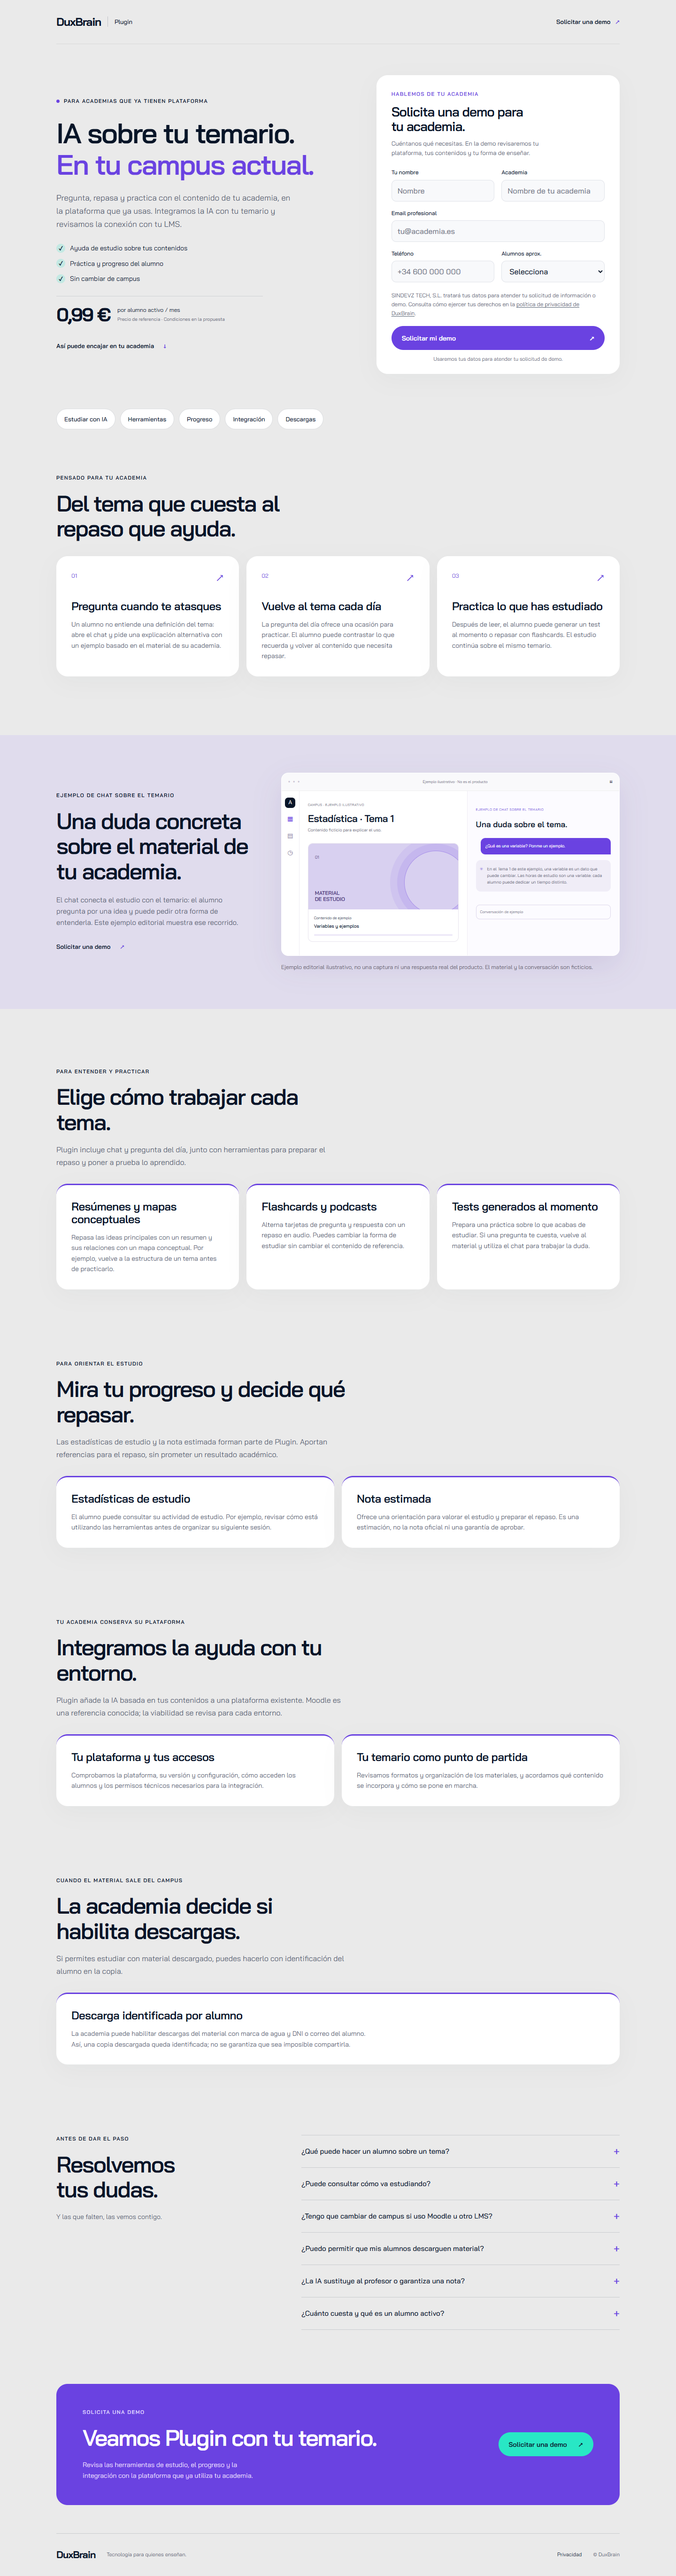
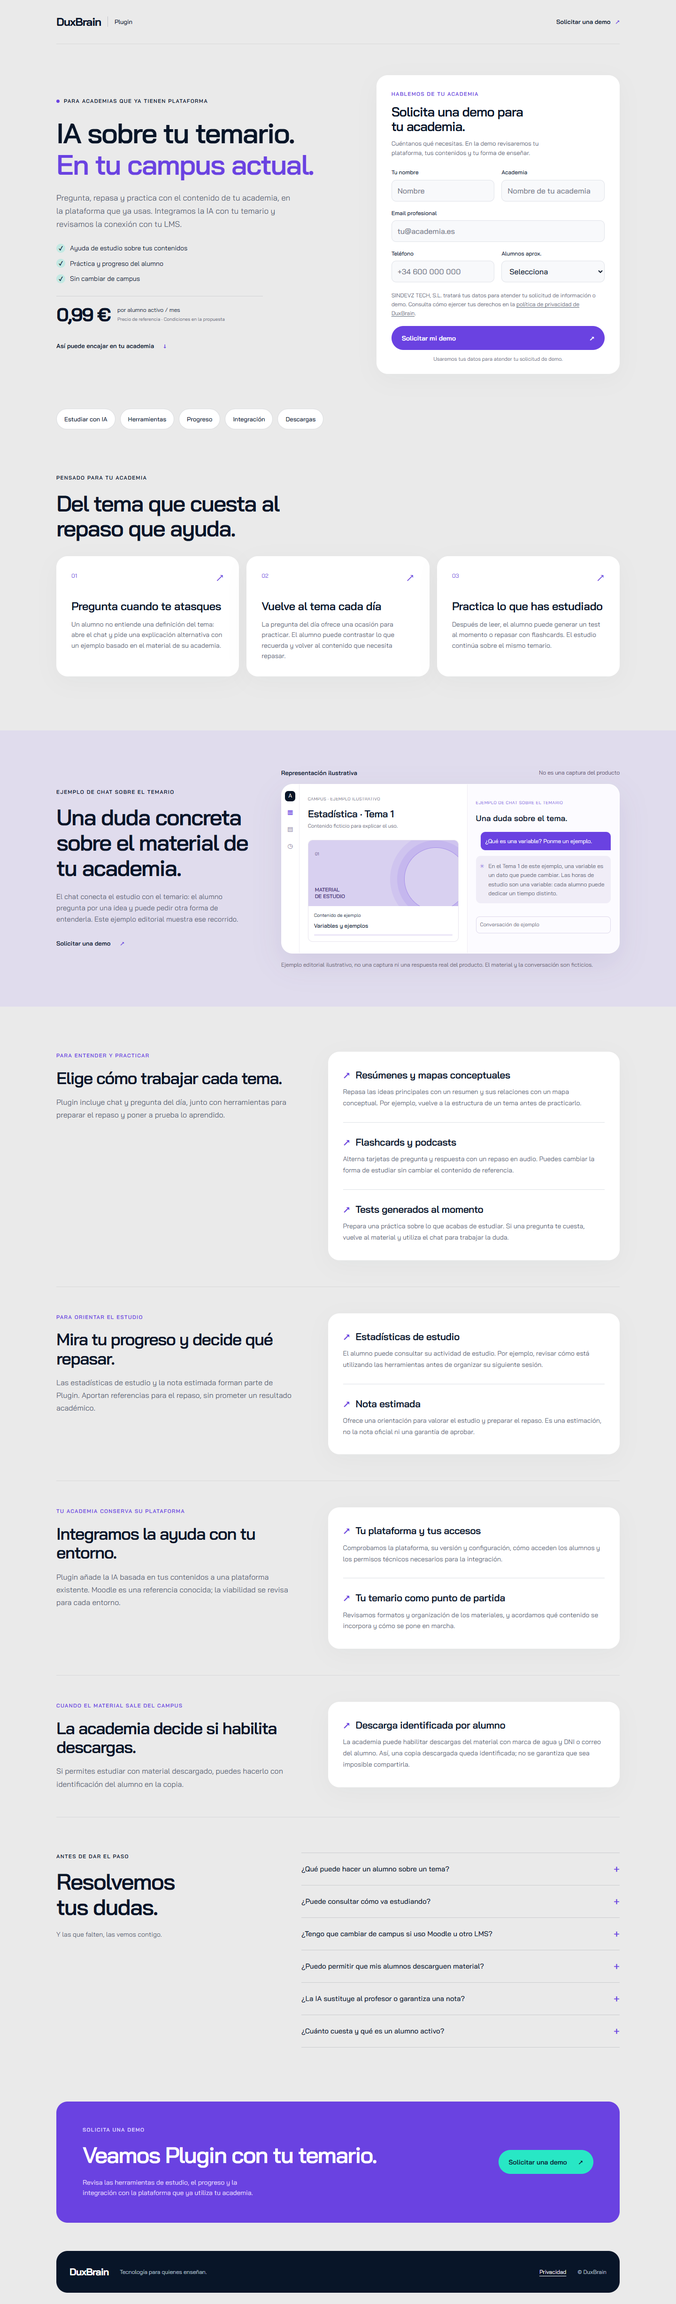
style: refine landing layouts and document required official assets

diff --git a/src/app/globals.css b/src/app/globals.css
@@ -81,11 +81,16 @@ fieldset:disabled .button { opacity: .7; cursor: default; transform: none; }
 .section-nav { display: flex; flex-wrap: wrap; gap: 10px; padding-block: 0 20px; }
 .section-nav a { min-height: 44px; display: inline-flex; align-items: center; padding: 8px 16px; border: 1px solid #08152824; border-radius: 100px; font-size: 13px; font-weight: 500; background: var(--surface); }
 .section-nav a:hover { color: var(--purple); border-color: var(--purple); }
-.feature-grid { display: grid; grid-template-columns: repeat(auto-fit, minmax(min(100%, 280px), 1fr)); gap: 16px; }
+.feature-grid { display: grid; gap: 0; background: var(--surface); border-radius: var(--radius); padding: 4px 24px; box-shadow: var(--shadow); }
 .feature-description { margin-top: 18px; font-size: 16px; line-height: 1.7; }
-.feature-section { scroll-margin-top: 24px; }
-.feature-card { border-top: 3px solid var(--purple); }
-.feature-card p { max-width: 70ch; }
+.feature-section { scroll-margin-top: 24px; border-bottom: 1px solid #08152816; padding-block: 48px; }
+.feature-section .section-heading { margin-bottom: 24px; }
+.feature-section .eyebrow { color: var(--purple); }
+.feature-item { padding-block: 24px; }
+.feature-item + .feature-item { border-top: 1px solid var(--line); }
+.feature-item h3 { display: flex; gap: 12px; font-size: 19px; line-height: 1.25; }
+.feature-item h3 span { color: var(--purple); flex-shrink: 0; }
+.feature-item p { max-width: 65ch; font-size: 14px; margin-top: 12px; line-height: 1.7; }
 .section-heading { max-width: 620px; margin-bottom: 32px; }
 .section-heading .eyebrow, .demo-copy .eyebrow, .faq-section .eyebrow { margin-bottom: 18px; }
 .benefit-grid { display: grid; gap: 16px; }
@@ -93,38 +98,38 @@ fieldset:disabled .button { opacity: .7; cursor: default; transform: none; }
 .feature-number { display: flex; justify-content: space-between; font-size: 12px; color: var(--purple); margin-bottom: 36px; }
 .feature-number > span { font-size: 25px; line-height: 1; }
 .benefit-card p { font-size: 14px; margin-top: 14px; }
-.demo-section { background: #e0dced; margin-block: 50px; padding-block: 64px; overflow: hidden; }
+.demo-section { background: #e0dced; margin-block: 40px; padding-block: 64px; overflow: hidden; }
 .demo-layout { display: grid; gap: 36px; align-items: center; }
 .demo-copy p { margin: 22px 0 26px; font-size: 15px; }
 .demo-figure { margin: 0; min-width: 0; }
-.product-window { border-radius: 15px; background: white; overflow: hidden; box-shadow: 0 22px 60px #422a7819; border: 1px solid #ffffff80; }
-.window-top { height: 38px; display: flex; align-items: center; justify-content: space-between; padding: 0 14px; background: #f9f9fb; border-bottom: 1px solid #eee; font-size: 8px; color: var(--muted); }
-.window-dots { letter-spacing: 2px; font-size: 7px; color: #c8c4d3; }
+.illustration-label { display: flex; flex-direction: column; gap: 2px; margin-bottom: 14px; font-size: 13px; font-weight: 600; color: var(--ink); }
+.illustration-label span { font-size: 12px; font-weight: 400; color: #514466; }
+.product-window { border-radius: var(--radius); background: white; overflow: hidden; box-shadow: 0 22px 60px #422a7819; border: 1px solid #ffffff80; }
 .product-body { display: grid; grid-template-columns: 36px minmax(0, 1fr); min-height: 295px; }
 .mock-sidebar { display: flex; flex-direction: column; align-items: center; padding: 14px 0; gap: 12px; border-right: 1px solid #efedf3; }
 .mock-square { width: 22px; height: 22px; background: var(--ink); color: white; border-radius: 7px; text-align: center; font-size: 12px; }
 .mock-nav { font-size: 15px; color: #9b93af; }
 .mock-nav.active { color: var(--purple); }
 .mock-main { padding: 22px 16px; }
-.mock-kicker { font-size: 7px; letter-spacing: .06em; color: var(--muted); margin-bottom: 12px; }
+.mock-kicker { font-size: 9px; letter-spacing: .06em; color: var(--muted); margin-bottom: 12px; }
 .mock-main h3 { font-size: 18px; }
-.mock-subtitle { font-size: 9px; margin-top: 6px; }
+.mock-subtitle { font-size: 11px; margin-top: 6px; }
 .course-preview { margin-top: 20px; border: 1px solid #e7e4ed; border-radius: 10px; overflow: hidden; }
 .course-art { background: #d8d0f0; height: 112px; position: relative; overflow: hidden; padding: 14px; color: #493480; }
 .course-art > span:first-child { font-size: 9px; }
 .art-caption { position: absolute; left: 14px; bottom: 14px; font-size: 11px; font-weight: 600; line-height: 1.2; }
 .orbit { position: absolute; border: 1px solid #6a42e175; border-radius: 50%; width: 135px; height: 135px; right: -20px; top: 15px; box-shadow: 0 0 0 15px #6a42e11a, 0 0 0 30px #6a42e115; }
-.course-bottom { padding: 12px; display: grid; gap: 4px; font-size: 8px; }
-.course-bottom strong { font-size: 10px; font-weight: 500; }
+.course-bottom { padding: 12px; display: grid; gap: 4px; font-size: 10px; }
+.course-bottom strong { font-size: 12px; font-weight: 500; }
 .course-line { width: 100%; height: 3px; background: #ebe6f7; margin-top: 5px; border-radius: 10px; }
 .mock-panel { grid-column: 2; border-top: 1px solid #efedf3; padding: 20px 16px; background: #fcfbff; }
-.panel-tag { font-size: 7px; color: var(--purple); letter-spacing: .08em; }
+.panel-tag { font-size: 9px; color: var(--purple); letter-spacing: .08em; }
 .mock-panel h4 { font-size: 17px; margin-top: 12px; }
-.chat-question { margin: 20px 0 12px 10px; background: var(--purple); color: white; border-radius: 10px 10px 0 10px; padding: 10px; font-size: 9px; }
-.chat-answer { display: flex; gap: 8px; font-size: 9px; background: #f0edf7; padding: 12px 8px; border-radius: 10px; }
+.chat-question { margin: 20px 0 12px 10px; background: var(--purple); color: white; border-radius: 10px 10px 0 10px; padding: 10px; font-size: 12px; }
+.chat-answer { display: flex; gap: 8px; font-size: 12px; background: #f0edf7; padding: 12px 8px; border-radius: 10px; }
 .ai-mark { color: var(--purple); }
-.mock-input { margin-top: 28px; padding: 8px; border: 1px solid #ded8eb; border-radius: 8px; font-size: 8px; color: var(--muted); display: flex; justify-content: space-between; }
-.control-list { margin-top: 24px; font-size: 10px; }
+.mock-input { margin-top: 28px; padding: 8px; border: 1px solid #ded8eb; border-radius: 8px; font-size: 11px; color: var(--muted); display: flex; justify-content: space-between; }
+.control-list { margin-top: 24px; font-size: 12px; }
 .control-list > div { display: flex; justify-content: space-between; gap: 16px; padding: 15px 0; border-bottom: 1px solid #e4deef; }
 .control-list > div > span:last-child { color: var(--purple); }
 figcaption { font-size: 12px; color: #5d566c; margin-top: 14px; }
@@ -143,10 +148,11 @@ details p { font-size: 14px; line-height: 1.75; padding-top: 16px; padding-right
 .final-cta .eyebrow { color: #ddd3ff; margin-bottom: 18px; }
 .final-cta p { color: #e7deff; font-size: 14px; margin-top: 20px; max-width: 400px; }
 .final-cta .button { flex-shrink: 0; }
-.footer { border-top: 1px solid #08152824; padding-block: 28px; display: flex; flex-wrap: wrap; gap: 18px 24px; align-items: center; font-size: 11px; }
+.footer { padding: 28px; margin-bottom: 24px; border-radius: var(--radius); background: var(--ink); color: white; display: flex; flex-wrap: wrap; gap: 18px 24px; align-items: center; font-size: 12px; }
 .footer .brand-text { font-size: 21px; }
-.footer p { flex-basis: 100%; }
-.footer > span:last-child { color: var(--muted); }
+.footer p { flex-basis: 100%; color: #bfc8d7; }
+.footer > span:last-child { color: #bfc8d7; }
+.footer a { text-decoration: underline; text-underline-offset: 4px; }
 .skip-link { position: absolute; left: 20px; top: -100px; background: white; padding: 14px; z-index: 10; }
 .skip-link:focus { top: 12px; }
 .review-page { padding-block: 48px; }
@@ -185,6 +191,13 @@ details p { font-size: 14px; line-height: 1.75; padding-top: 16px; padding-right
   .benefit-card h3 { font-size: 24px; }
   .demo-section { padding-block: 80px; }
   .demo-layout { grid-template-columns: .85fr 1.5fr; gap: 70px; }
+  .illustration-label { flex-direction: row; justify-content: space-between; gap: 12px; }
+  .feature-section { display: grid; grid-template-columns: minmax(0, .9fr) minmax(0, 1.1fr); gap: 70px; align-items: start; padding-block: 56px; }
+  .feature-section .section-heading { margin-bottom: 0; }
+  .feature-section h2 { font-size: 36px; }
+  .feature-grid { padding: 8px 32px; }
+  .feature-item { padding-block: 28px; }
+  .feature-item h3 { font-size: 21px; }
   .mock-main { padding: 24px 18px; }
   .mock-main h3 { font-size: 21px; }
   .course-art { height: 140px; }

diff --git a/src/components/landing.tsx b/src/components/landing.tsx
@@ -41,13 +41,13 @@ export function SectionNavigation({ content: c }: { content: LandingContent }) {
 export function FeatureSections({ content: c }: { content: LandingContent }) {
   return c.sections.map(section => <section className="section container feature-section" id={section.id} key={section.id} aria-labelledby={`${section.id}-title`}>
     <div className="section-heading"><span className="eyebrow">{section.eyebrow}</span><h2 id={`${section.id}-title`}>{section.title}</h2><p className="feature-description">{section.description}</p></div>
-    <div className="feature-grid">{section.items.map(item => <article className="benefit-card feature-card" key={item.title}><h3>{item.title}</h3><p>{item.text}</p></article>)}</div>
+    <div className="feature-grid">{section.items.map(item => <article className="feature-item" key={item.title}><h3><span aria-hidden="true">↗</span>{item.title}</h3><p>{item.text}</p></article>)}</div>
   </section>);
 }
 
 export function VisualDemo({ content: c }: { content: LandingContent }) {
   return <section className="demo-section" id="en-accion"><div className="container demo-layout"><div className="demo-copy"><span className="eyebrow">{c.demo.panelLabel}</span><h2>{c.demoTitle}</h2><p>{c.demoText}</p><a className="text-link" href="#demo">Solicitar una demo <span aria-hidden="true">↗</span></a></div>
-    <figure className="demo-figure"><div className="product-window"><div className="window-top"><span className="window-dots" aria-hidden="true">● ● ●</span><span>Ejemplo ilustrativo · No es el producto</span><span aria-hidden="true">▦</span></div>
+    <figure className="demo-figure"><div className="illustration-label">Representación ilustrativa<span>No es una captura del producto</span></div><div className="product-window">
       <div className="product-body"><aside className="mock-sidebar" aria-hidden="true"><span className="mock-square">A</span><span className="mock-nav active">▦</span><span className="mock-nav">▤</span><span className="mock-nav">◷</span></aside>
       <div className="mock-main"><div className="mock-kicker">CAMPUS · EJEMPLO ILUSTRATIVO</div><h3>{c.demo.courseTitle}</h3><p className="mock-subtitle">{c.demo.subtitle}</p>
       <div className="course-preview"><div className="course-art" aria-hidden="true"><span>01</span><div className="orbit" /><span className="art-caption">MATERIAL<br />DE ESTUDIO</span></div><div className="course-bottom"><span>Contenido de ejemplo</span><strong>{c.demo.material}</strong><span className="course-line" /></div></div>

diff --git a/docs/activos-pendientes.md b/docs/activos-pendientes.md
@@ -1,0 +1,42 @@
+# Activos oficiales pendientes · 3 de noviembre de 2026
+
+## Resultado de los accesos
+
+- `public/brand/` contiene solo el README, sin PNG. La [carpeta de identidad facilitada](https://drive.google.com/drive/folders/1Cwz28BYtO9URmJJZC5CFY1HEKRdMvCaX) redirige a inicio de sesión de Google en Chrome. No se ha podido consultar su inventario ni conocer los nombres originales.
+- El navegador integrado falla antes de abrir una sesión con `codex/sandbox-state-meta: missing field sandboxPolicy`. Se ha utilizado Chrome instalado con Playwright para la revisión local.
+- El conector DuxBrain EBAU Demo responde que la autenticación se ha solicitado y aceptado y pide reintentar; el reintento devuelve el mismo mensaje, sin acceso a la academia ni sesión navegable. No se han consultado alumnos ni realizado operaciones en el campus.
+
+No se han incorporado logos ni capturas reales. Se conserva el nombre DuxBrain como texto y la ilustración anterior, ahora con un rótulo visible fuera del marco: «Representación ilustrativa / No es una captura del producto». El ejemplo no acredita el aspecto real de ninguna pantalla. Las seis imágenes de `docs/capturas/` son capturas de las landings locales, no del producto.
+
+## Dos archivos de identidad necesarios
+
+Copiar en `public/brand/`, conservando sus nombres y extensión originales:
+
+1. PNG oficial horizontal completo de DuxBrain, con texto oscuro y fondo transparente, para cabecera sobre `#eaeaea`.
+2. PNG oficial horizontal completo de DuxBrain, con texto blanco y fondo transparente, para el pie sobre `#081528`.
+
+Preferiblemente con al menos 600 px de ancho y sin márgenes transparentes excesivos. No son nombres de archivo inventados: falta acceso para indicar los nombres exactos del original. Al recibirlos se comprobarán proporción, tamaño óptico, contraste y legibilidad en 390 y 1440 px.
+
+## Siete capturas prioritarias necesarias
+
+Los siguientes nombres son destinos propuestos para organizar las capturas, no archivos ya existentes. Entregar PNG originales sin compresión de mensajería; anchura recomendada de 1440 px o superior, con el área de interés completa. No incluir la barra del navegador. Indicar si la pantalla corresponde al rol alumno o administración.
+
+| Destino propuesto en `public/product/` | Pantalla real requerida | Uso |
+| --- | --- | --- |
+| `plugin-chat.png` | Alumno con un tema ficticio abierto y una pregunta y respuesta reales del chat sobre ese material; debe verse la relación con el tema. | Principal de Plugin |
+| `plugin-estudio.png` | Herramientas sobre ese mismo tema, por ejemplo resumen, mapa o flashcards generados con material ficticio. | Herramientas de estudio |
+| `campus-cursos.png` | Vista de cursos o inicio del alumno con cursos de demostración. | Principal de Campus |
+| `campus-aula-video.png` | Lección con vídeo alojado o aula con una grabación de demostración, sin rostros ni participantes reales. | Clases y vídeo |
+| `campus-gestion.png` | Gestión de cursos o matrículas exclusivamente ficticias, sin datos de pago ni registros de personas reales. | Gestión de Campus |
+| `secure-avisos.png` | Panel real de avisos con casos sintéticos claramente identificados, sin IP, ubicaciones, dispositivos o identidades de personas reales. | Principal de Campus Secure |
+| `secure-umbrales.png` | Configuración real de periodos y umbrales de los avisos, sin secretos ni datos de terceros. No hace falta cambiar ni guardar valores. | Configuración de seguridad |
+
+No es necesario mostrar todas las funciones en una única captura. Si una pantalla no existe o no resulta adecuada para publicación, indicarlo para mantener la representación ilustrativa. Solo añadir pantallas que correspondan a las capacidades confirmadas. No fabricar pantallas de MCP, avisos o herramientas de estudio.
+
+Antes de copiar un activo a `public/`, revisar todos los píxeles: nombres, correos, DNI, avatares, notificaciones, direcciones IP, URL con tokens, contraseñas, códigos de acceso y datos financieros. Usar exclusivamente una demo con datos ficticios; no compartir credenciales por chat ni incorporar datos personales al repositorio. Las descargas identificadas, si se muestran en el futuro, deben utilizar también una identidad completamente ficticia.
+
+## Integración pendiente al recibir los archivos
+
+Usar el logo oscuro en `Header` y el blanco en `Footer`. Sustituir la representación en `VisualDemo` por una captura real pertinente a cada ruta, con `next/image`, dimensiones explícitas, proporción conservada y pie descriptivo del rol y pantalla. No superponer textos que simulen controles ni recortar la información necesaria para entender la función. En móvil seleccionar un encuadre legible y permitir consultar la imagen completa. Validar de nuevo las seis vistas.
+
+Los textos comerciales, precios, metadatos, campos, atribución y lógica del formulario se conservan. `LEADS_SHEETS_WRITES_ENABLED=false`; entrega real todavía pendiente de configurar y verificar. Este trabajo no despliega ni activa envíos.

diff --git a/docs/revision-visual.md b/docs/revision-visual.md
@@ -1,6 +1,23 @@
 # Revisión visual · 3 de noviembre de 2026
 
-Las seis capturas enlazadas se actualizan en feature/landing-copy con las capacidades confirmadas por David: herramientas de estudio, Campus completo, seguridad y MCP incluidos. La matriz, la evidencia y las comprobaciones actuales están en [revision-contenido.md](revision-contenido.md). El resto de este informe conserva el contexto de la revisión visual inicial; el ejemplo de chat y el esquema de señales de Secure son ilustrativos. Las pruebas de formulario interceptan /api/leads, sin llegar al servidor real.
+## Acabado visual actual en feature/landing-copy
+
+Las seis capturas enlazadas corresponden al acabado actual, con las capacidades confirmadas por David. Se conservan sin cambios el contenido comercial, metadatos, precios y formulario. Plugin sigue centrado en estudiar sobre el temario existente; Campus, en reunir estudio, clases y gestión; Secure, en revisar accesos y contenidos dentro del mismo Campus.
+
+- Secciones de funciones con título y explicación a la izquierda y detalles agrupados a la derecha en escritorio; en móvil se apilan. Menos tarjetas independientes, bordes y espacios repetidos, sin eliminar funciones.
+- Rótulo legible encima de la ilustración: «Representación ilustrativa / No es una captura del producto». Se retira la barra que simulaba una ventana de navegador y se aumenta el tamaño del texto del ejemplo. El marco conserva el radio de 24 px de la marca.
+- Pie oscuro con texto blanco, enlaces identificables y texto secundario de mayor contraste. El nombre sigue siendo texto provisional; no se ha creado un logo.
+- Primer pantallazo y formulario conservados: CTA visible a 390 × 844, precio y propuesta específica por ruta. Navegación por secciones, FAQ y CTA revisados en ambas resoluciones.
+
+**Activos bloqueados por acceso:** no hay PNG en `public/brand/`, Drive redirige a iniciar sesión y el conector EBAU no proporciona una sesión utilizable tras reintentar. Se mantiene la ilustración anterior y se detallan los dos logos y siete capturas de producto necesarios en [activos-pendientes.md](activos-pendientes.md). Las capturas locales de revisión no se presentan como pantallas reales del producto.
+
+Validación actual: lint, 26 pruebas de servicios simulados y build de producción. Revisión con Chrome a 1440 × 1000 y 390 × 844 en las tres rutas, incluida atribución, CTA, FAQ y error de configuración simulado. También se revisan éxito, error e incertidumbre de envío con respuestas interceptadas. Ninguna prueba llega a Google Sheets ni SMTP; `LEADS_SHEETS_WRITES_ENABLED=false`.
+
+Repetir con `node scripts/review-landings.mjs http://localhost:3100` y `node scripts/check-lead-form.mjs`, con el servidor local de producción iniciado en el puerto 3100. Resultados en [capturas/revision.json](capturas/revision.json). La matriz de afirmaciones está en [revision-contenido.md](revision-contenido.md).
+
+## Contexto histórico de la revisión inicial
+
+Las notas siguientes describen la primera revisión; los resultados actuales son los del apartado anterior. El formulario ha evolucionado desde aquella revisión y ya dispone de API, bloqueada hasta completar su configuración.
 
 Proyecto existente duxbrain-landings. Sin despliegue. Servidor local de producción en http://localhost:3000.
 

diff --git a/public/brand/README.md b/public/brand/README.md
@@ -2,9 +2,11 @@
 
 No hay PNG oficiales en esta carpeta en la revisión del 3 de noviembre de 2026. Faltan estas dos variantes oficiales (conservar extensión PNG):
 
-- `duxbrain-logo.png`: principal, texto oscuro, para cabecera y pie actuales sobre fondo claro.
-- `duxbrain-logo-white.png`: blanco/transparente, para uso sobre fondo oscuro o púrpura cuando corresponda.
+- Logo horizontal oficial, texto oscuro sobre transparente, para la cabecera clara.
+- Logo horizontal oficial, blanco sobre transparente, para el pie oscuro.
 
-Si los archivos oficiales tienen otros nombres, conservarlos y actualizar las referencias al integrarlos. No convertir ni renombrar un PNG a SVG. No se ha inventado ni dibujado un logo: la interfaz utiliza de momento el nombre en texto.
+Conservar los nombres originales y la extensión real de los PNG al copiarlos aquí. Los nombres originales no se han podido consultar: la carpeta de Drive solicita iniciar sesión. No convertir ni renombrar un PNG a SVG. No se ha inventado ni dibujado un logo: la interfaz utiliza de momento el nombre en texto, oscuro en cabecera y blanco en el pie.
 
 Al recibirlos, sustituir el texto de marca en Header y Footer (`src/components/landing.tsx`) por el recurso oficial, conservando su proporción y texto alternativo. No se cargan rutas de imagen inexistentes.
+
+Detalles y lista de capturas reales pendientes: [activos-pendientes.md](../../docs/activos-pendientes.md).
